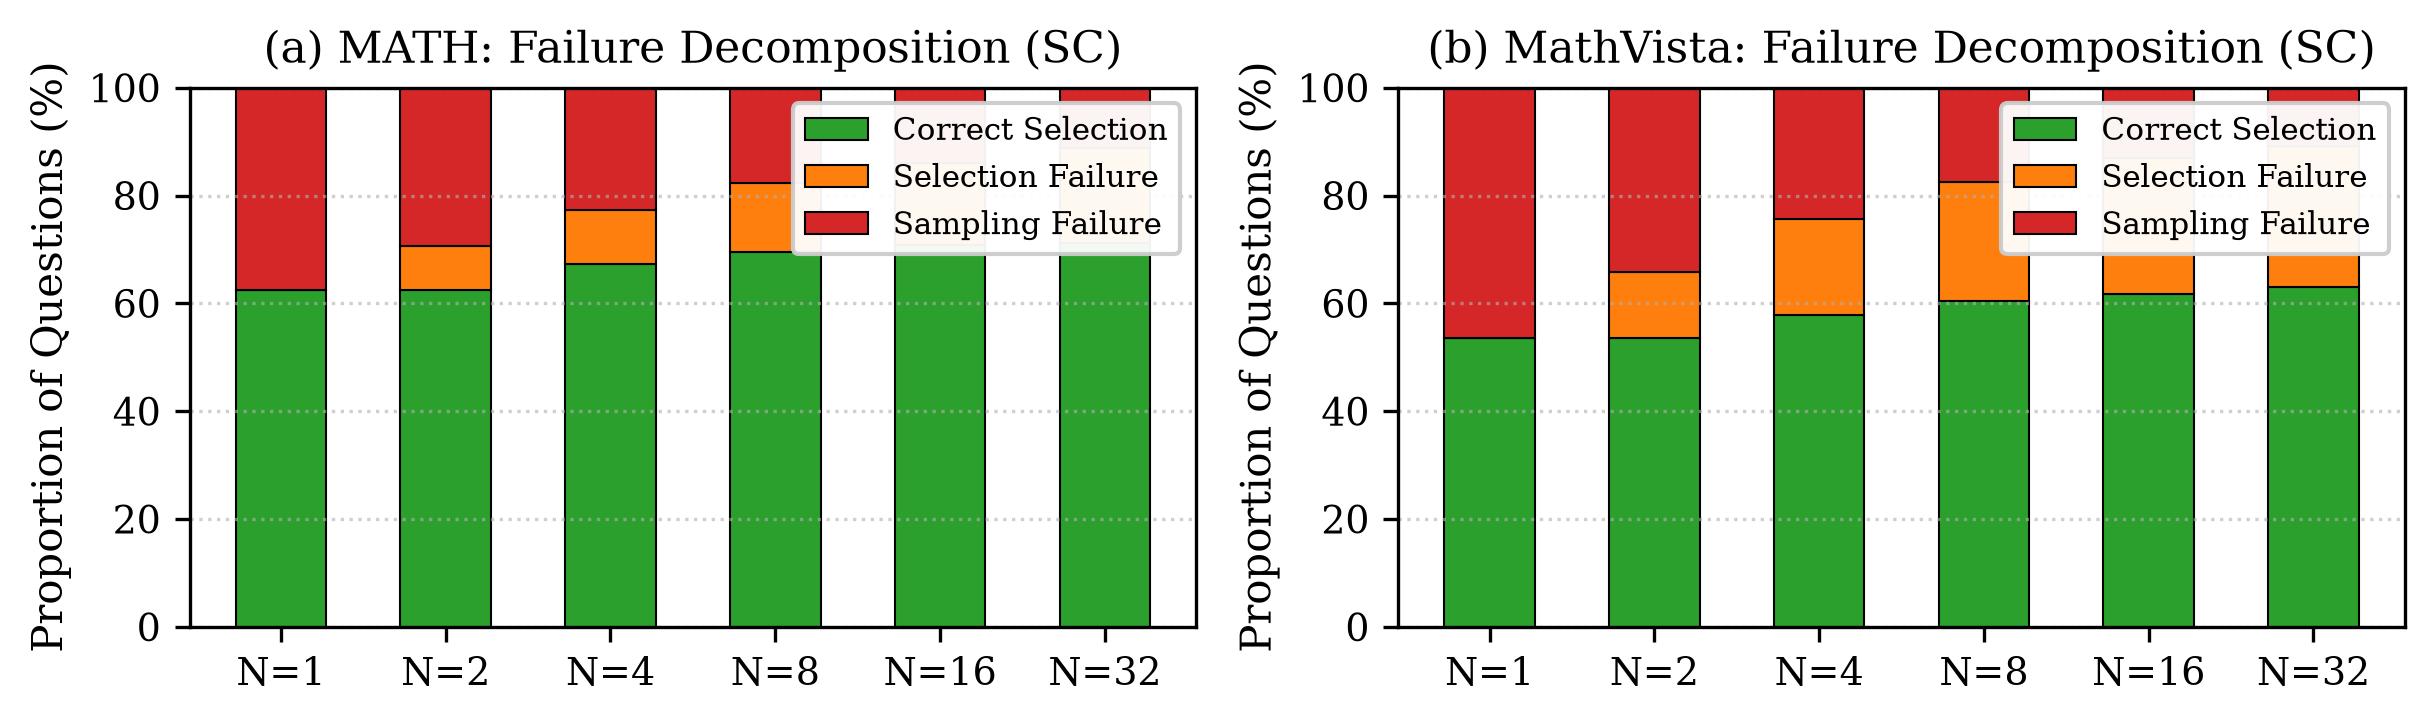
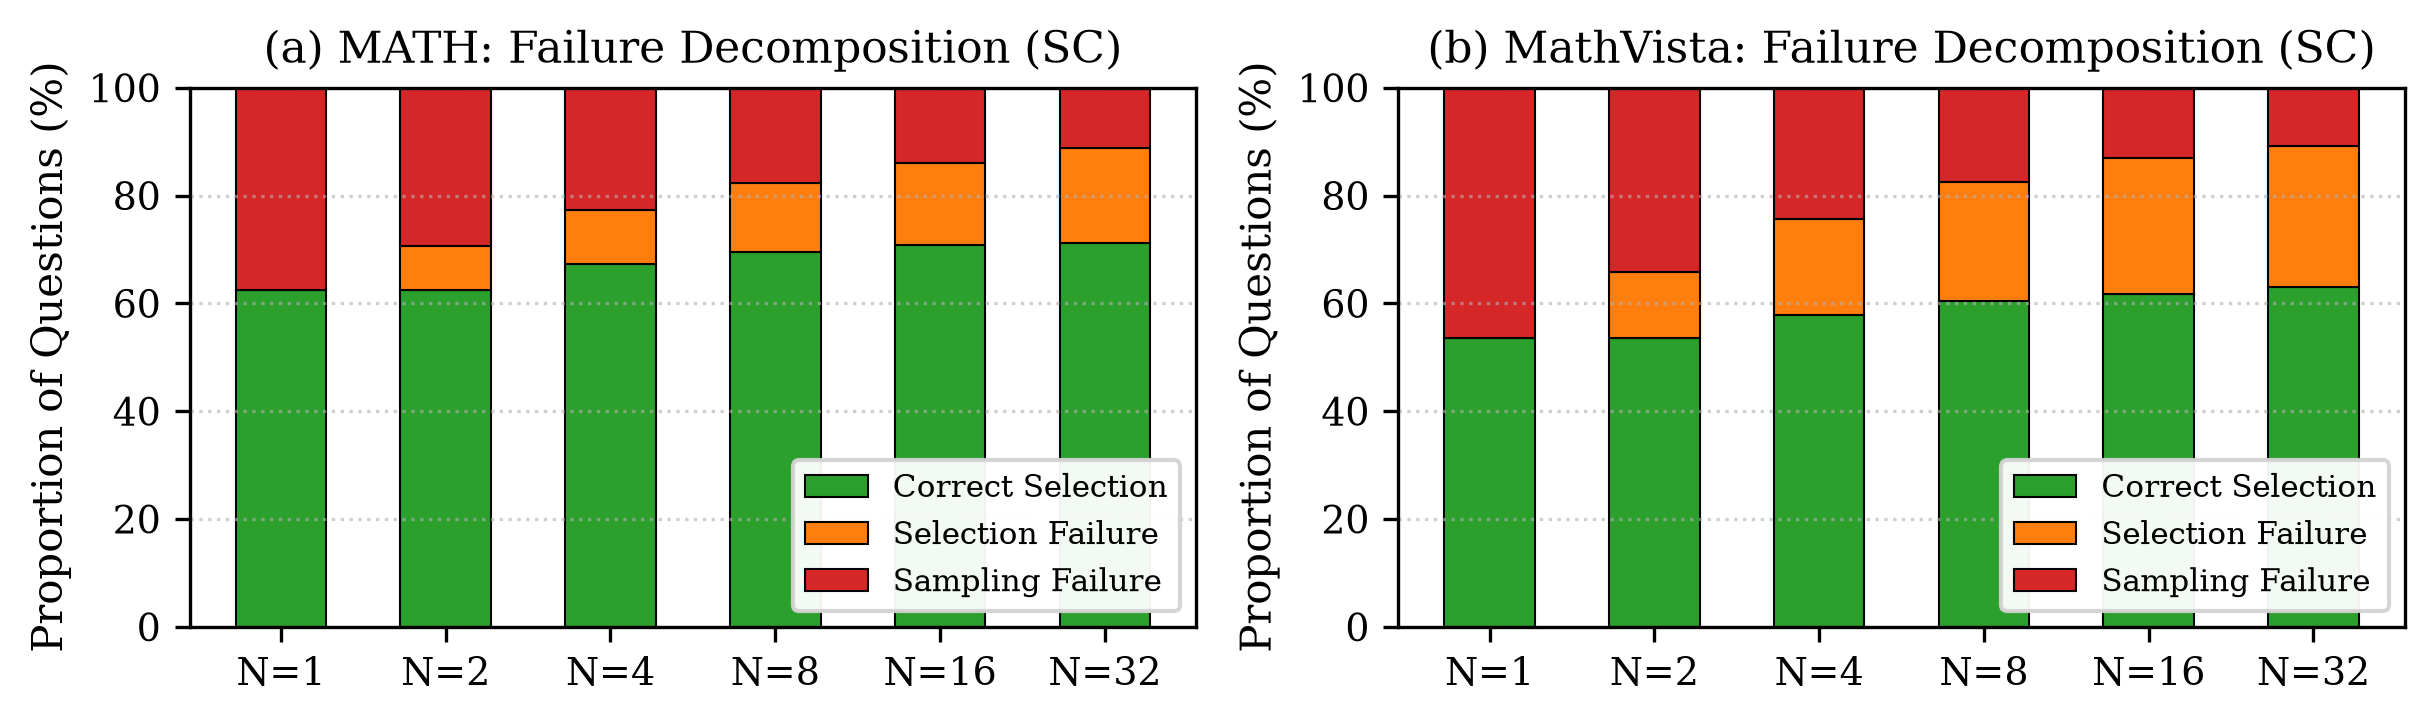
Move Figure 6 legends to bottom right

diff --git a/report/generate_figures.py b/report/generate_figures.py
@@ -397,7 +397,7 @@ def plot_figure_6():
     ax1.set_ylabel("Proportion of Questions (%)")
     ax1.set_title("(a) MATH: Failure Decomposition (SC)")
     ax1.grid(True, linestyle=":", alpha=0.6, axis="y")
-    ax1.legend(loc="upper right", fontsize=7.5, framealpha=0.95)
+    ax1.legend(loc="lower right", fontsize=7.5, framealpha=0.95, facecolor="white", edgecolor="lightgray")
     ax1.set_ylim(0, 100)
     
     # MathVista
@@ -415,7 +415,7 @@ def plot_figure_6():
     ax2.set_ylabel("Proportion of Questions (%)")
     ax2.set_title("(b) MathVista: Failure Decomposition (SC)")
     ax2.grid(True, linestyle=":", alpha=0.6, axis="y")
-    ax2.legend(loc="upper right", fontsize=7.5, framealpha=0.95)
+    ax2.legend(loc="lower right", fontsize=7.5, framealpha=0.95, facecolor="white", edgecolor="lightgray")
     ax2.set_ylim(0, 100)
     
     fig.savefig(OUTPUT_DIR / "fig6_task3_failure_decomposition.pdf", bbox_inches="tight")
